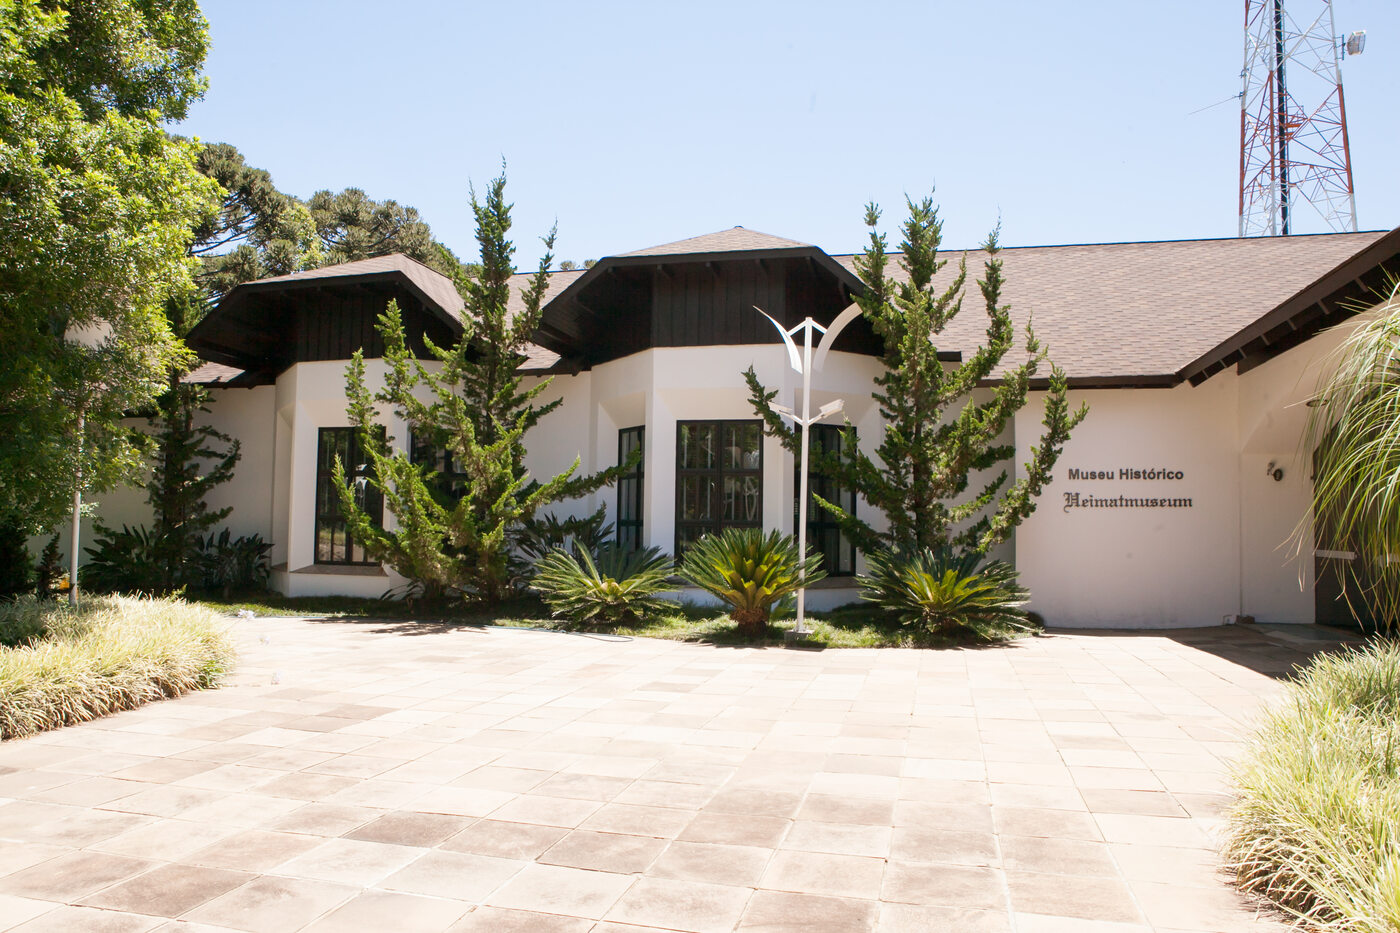
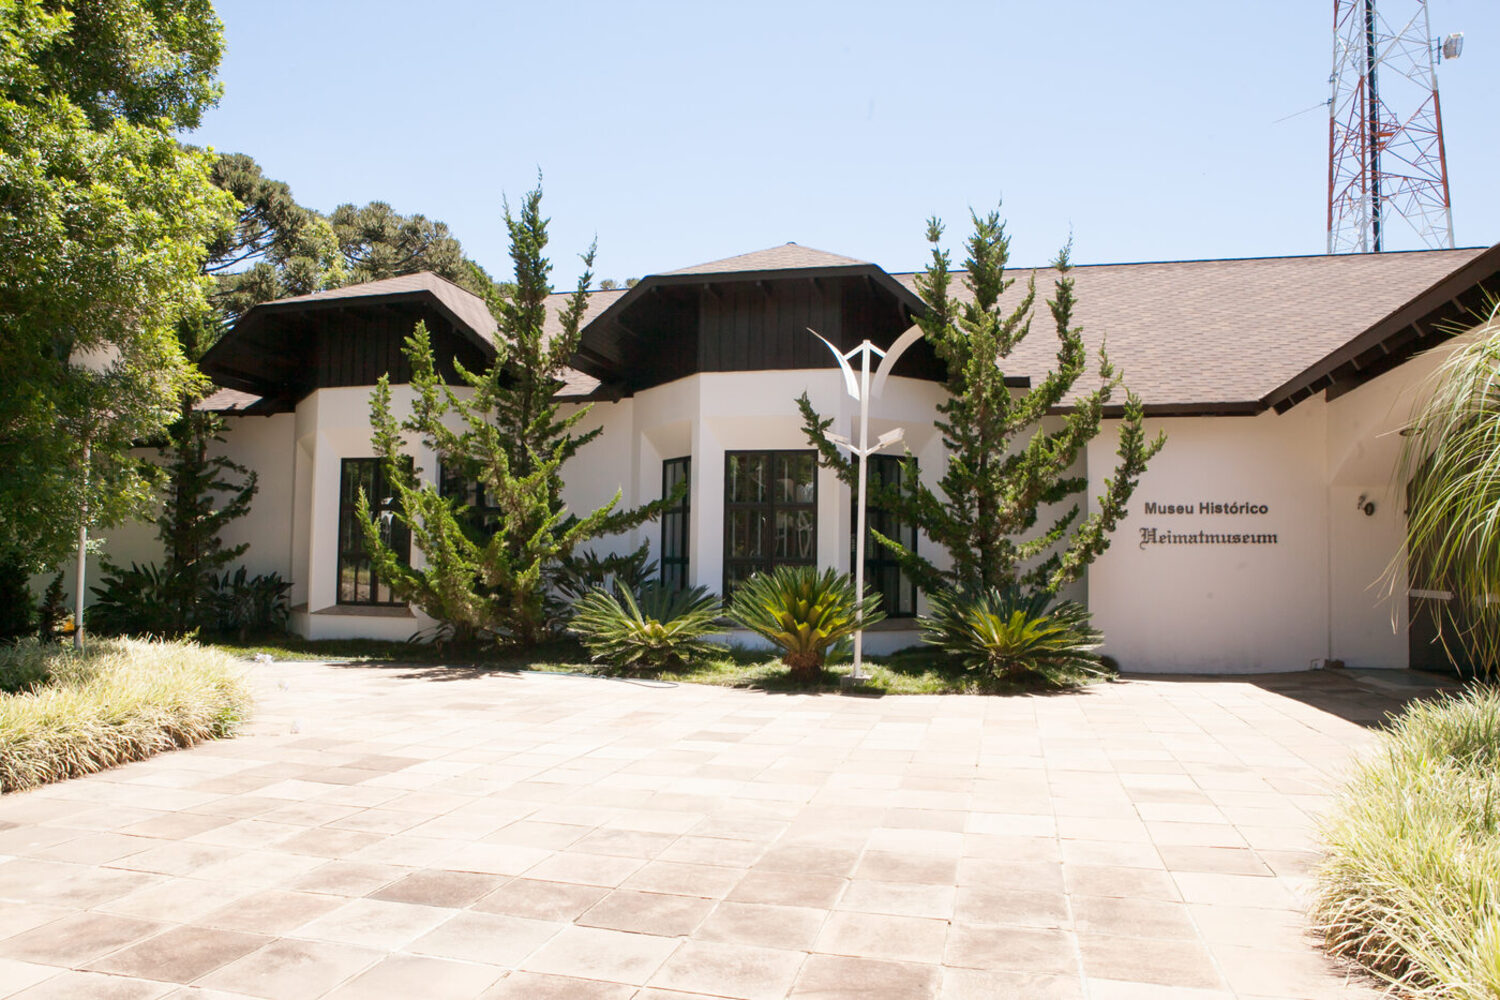
Add files via upload

diff --git a/cultura.html b/cultura.html
@@ -47,7 +47,7 @@
   <span class="motif ic" style="bottom:-26%;left:-7%;width:440px;height:440px;color:#fff;--m:url('../brand/snowflake-white.svg')"></span>
   <div class="container feature">
     <div class="feature-media reveal">
-      <img src="assets/img/colinas.jpg" alt="Paisagem rural do distrito de Entre Rios" loading="lazy">
+      <img src="assets/img/museu.jpg" alt="Museu Histórico de Entre Rios (Heimatmuseum), em Entre Rios" loading="lazy">
       <span class="badge">Distrito de Entre Rios · Guarapuava–PR</span>
     </div>
     <div class="copy">
@@ -72,7 +72,7 @@
     <div class="copy">
       <span class="kicker reveal">Visite</span>
       <h2 class="section-title reveal d1 mt-s">Museu Histórico de Entre Rios</h2>
-      <p class="lead reveal d2 mt-s">A saga dos Suábios do Danúbio contada de perto: murais, mapas, objetos e memórias da imigração que fundou a Colônia Vitória. Um passeio para toda a família, com visitas guiadas.</p>
+      <p class="lead reveal d2 mt-s">A saga dos Suábios do Danúbio contada de perto: murais, mapas, objetos e memórias da imigração que fundou o distrito de Entre Rios. Um passeio para toda a família, com visitas guiadas.</p>
       <ul class="f-list">
         <li class="reveal"><span class="fi"><svg viewBox="0 0 24 24" fill="none" stroke="currentColor" stroke-width="1.7"><path d="M21 10c0 7-9 13-9 13s-9-6-9-13a9 9 0 0 1 18 0z"/><circle cx="12" cy="10" r="3"/></svg></span><div><b>Endereço</b><span>Av. Michael Moor, 1951 — Colônia Vitória, Entre Rios · Guarapuava–PR</span></div></li>
         <li class="reveal d1"><span class="fi"><svg viewBox="0 0 24 24" fill="none" stroke="currentColor" stroke-width="1.7"><circle cx="12" cy="12" r="9"/><path d="M12 7v5l3 2"/></svg></span><div><b>Horários</b><span>Terça a sexta: 9h–12h e 13h–17h · Sábados, domingos e feriados: 13h–17h</span></div></li>

diff --git a/index.html b/index.html
@@ -268,7 +268,7 @@
         <span class="r-link">Explorar <svg viewBox="0 0 24 24" fill="none" stroke="currentColor" stroke-width="2"><path d="M5 12h14M13 6l6 6-6 6"/></svg></span>
       </a>
       <a class="route g-cultura reveal d2" href="cultura.html">
-        <div class="bg"><img src="assets/img/museu.jpg" alt="Museu Histórico de Entre Rios, arquitetura germânica" loading="lazy"></div>
+        <div class="bg"><img src="assets/img/cultura.jpg" alt="Arquitetura típica da colonização suábia em Entre Rios" loading="lazy"></div>
         <span class="r-badge">Entre Rios</span>
         <div class="r-ic"><span class="ic-mask" style="--m:url('../brand/icons/lobo.svg')"></span></div>
         <h3>Cultura &amp; Entre Rios</h3><p>Tradição tropeira, imigrações e um pedaço da Europa no planalto.</p>
@@ -347,7 +347,7 @@
   <span class="motif ic" style="top:-26%;right:-7%;width:440px;height:440px;color:#fff;--m:url('../brand/icons/lobo.svg')"></span>
   <div class="container feature rev">
     <div class="feature-media reveal">
-      <img src="assets/img/cultura.jpg" alt="Arquitetura típica da colonização suábia em Entre Rios" loading="lazy">
+      <img src="assets/img/museu.jpg" alt="Museu Histórico de Entre Rios (Heimatmuseum), em Entre Rios" loading="lazy">
       <span class="badge">Entre Rios · colonização suábia</span>
     </div>
     <div class="copy">